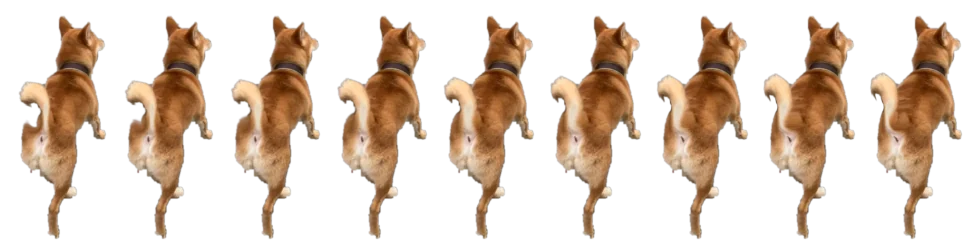
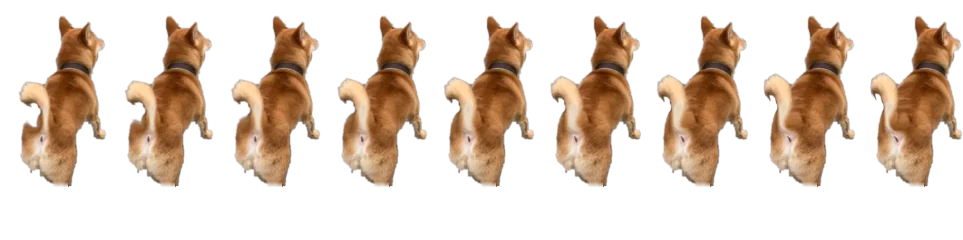
Walk game: restore Abu's second hind leg (mirrored) with stepping animation
Claude-Session: https://claude.ai/code/session_015w22sn7mRh61Yk5PpxvVR2

diff --git a/app.js b/app.js
@@ -1419,8 +1419,8 @@ function Walk(){
     if(o.fuse<1.2){ ctx.strokeStyle='rgba(216,67,50,.35)'; ctx.setLineDash([5,5]); ctx.lineWidth=2; ctx.beginPath(); ctx.arc(o.x,o.y,85,0,7); ctx.stroke(); ctx.setLineDash([]); }
   }
   /* 阿布的背影：從真實照片去背，捲尾巴會搖（預先做好 9 格搖尾巴的圖） */
-  const WALK=new Image(); WALK.src='img/abu_walk.webp';
-  const FW=107, FH=240, NF=9, COLLAR=[76,69], HEADTOP=[90,18];
+  const WALK=new Image(); WALK.src='img/abu_walk.webp'; const LEG=new Image(); LEG.src='img/abu_leg.webp';
+  const FW=107, FH=240, NF=9, COLLAR=[76,69], HEADTOP=[90,18], LW=23, LH=59, LEGL=[42.9,178.4], LEGR=[71.6,174.6];   // 兩隻後腳：照片裡原本的左後腳，右後腳用它左右翻過來
   function drawAbu(){
     const hgt=Math.max(110,Math.min(150,H*.25)), sc=hgt/FH, fw=FW*sc, run=speed/60;
     const wagHz= freezeT>0? 2 : want>.6? 16 : 9, wagAmp= freezeT>0? .25 : want>.6? 1 : .8;
@@ -1433,6 +1433,11 @@ function Walk(){
     ctx.strokeStyle='#B8322A'; ctx.lineWidth=3; ctx.setLineDash([5,3]); ctx.beginPath(); ctx.moveTo(cxp,cyp); taut? ctx.lineTo(W/2,H+10) : ctx.quadraticCurveTo((cxp+W/2)/2,H-10,W/2,H+10); ctx.stroke(); ctx.setLineDash([]);
     ctx.fillStyle='rgba(43,39,35,.18)'; ctx.beginPath(); ctx.ellipse(ax,fy,fw*.45,hgt*.05,0,0,7); ctx.fill();
     ctx.save(); ctx.translate(ax,fy-bob); ctx.rotate(sway);
+    if(LEG.complete&&LEG.naturalWidth){                         // 後腳一前一後踏（畫在身體後面）
+      const lift=freezeT>0? 0 : Math.sin(step)*5*sc*2, ox=-fw/2, oy=-hgt;
+      ctx.drawImage(LEG,ox+LEGL[0]*sc,oy+LEGL[1]*sc-Math.max(0,lift),LW*sc,LH*sc);
+      ctx.save(); ctx.translate(ox+(LEGR[0]+LW)*sc,oy+LEGR[1]*sc-Math.max(0,-lift)); ctx.scale(-1,1); ctx.drawImage(LEG,0,0,LW*sc,LH*sc); ctx.restore();
+    }
     if(WALK.complete&&WALK.naturalWidth) ctx.drawImage(WALK,fr*FW,0,FW,FH,-fw/2,-hgt,fw,hgt);
     ctx.restore();
     const hx=ax-fw/2+HEADTOP[0]*sc, hy=fy-hgt+HEADTOP[1]*sc-bob;
